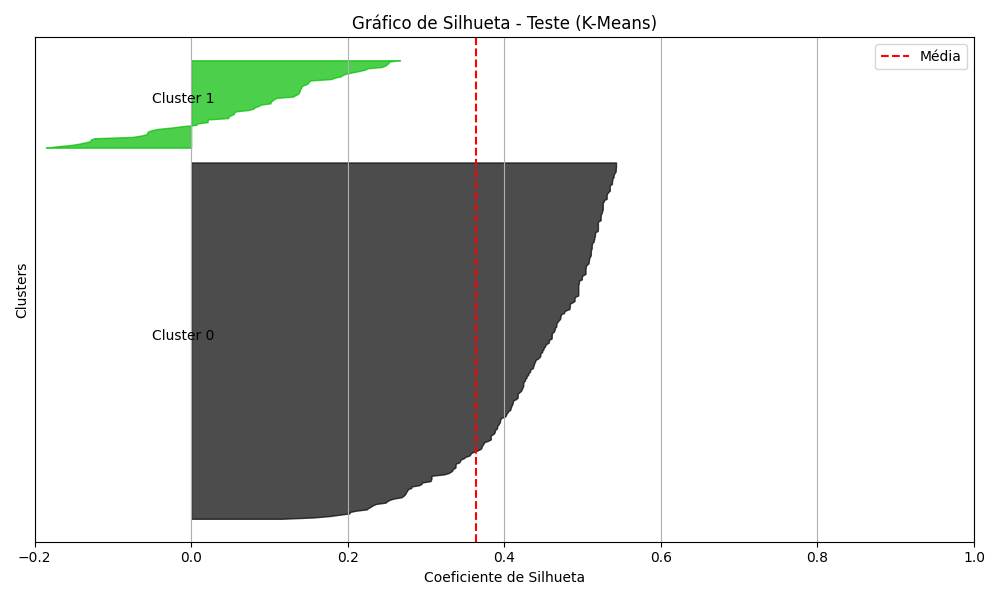
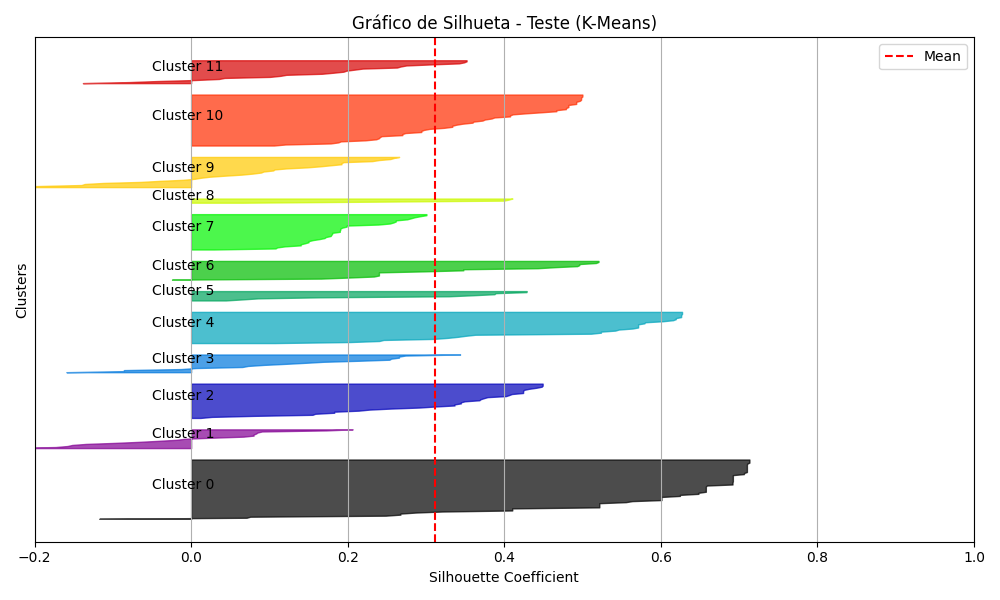
dbscan implemented

Changed region(s): [[0.031, 0.09, 0.744, 0.87], [0.434, 0.93, 0.589, 0.99], [0.868, 0.09, 0.961, 0.12]]

diff --git a/Utils/metrics_visual.py b/Utils/metrics_visual.py
@@ -18,7 +18,6 @@ def save_confusion_matrix(y_true, y_pred, class_labels, save_path, show=False, t
     - show: If True, also display the plot
     - title: Plot title
     """
-
     os.makedirs(os.path.dirname(save_path), exist_ok=True)
 
     disp = ConfusionMatrixDisplay.from_predictions(
@@ -36,9 +35,10 @@ def save_confusion_matrix(y_true, y_pred, class_labels, save_path, show=False, t
     plt.close()
     print(f"[INFO] Confusion matrix saved to: {save_path}")
 
+
 def save_classification_report_image(y_true, y_pred, class_labels, save_path, title="Classification Report"):
     """
-    Generates a styled image with only precision, recall and F1-score per class,
+    Generates a styled image with only precision, recall, and F1-score per class,
     and shows global accuracy separately. Saves the result as a PNG image.
 
     Parameters:
@@ -50,7 +50,6 @@ def save_classification_report_image(y_true, y_pred, class_labels, save_path, ti
     """
     os.makedirs(os.path.dirname(save_path), exist_ok=True)
 
-    # Metrics
     report_dict = classification_report(
         y_true, y_pred,
         target_names=class_labels,
@@ -58,15 +57,11 @@ def save_classification_report_image(y_true, y_pred, class_labels, save_path, ti
     )
     accuracy = accuracy_score(y_true, y_pred)
     df = pd.DataFrame(report_dict).transpose().round(3)
-
-    # Keep only precision, recall, f1-score, remove accuracy/support/macro/weighted
     df_filtered = df.loc[class_labels, ['precision', 'recall', 'f1-score']]
 
-    # Plotting
     fig, ax = plt.subplots(figsize=(8, len(df_filtered) * 0.6 + 2))
     ax.axis('off')
 
-    # Table style
     table = ax.table(
         cellText=df_filtered.values,
         rowLabels=df_filtered.index,
@@ -78,32 +73,29 @@ def save_classification_report_image(y_true, y_pred, class_labels, save_path, ti
     table.set_fontsize(11)
     table.scale(1.1, 1.6)
 
-    # Title and accuracy
     plt.title(f"{title}\nAccuracy: {accuracy:.2%}", fontsize=14, weight='bold', pad=20)
 
     plt.tight_layout()
     plt.savefig(save_path, dpi=300)
     plt.close()
 
-    print(f"[INFO] Pretty classification report image saved to: {save_path}")
+    print(f"[INFO] Classification report image saved to: {save_path}")
+
 
 def plot_roc_curve(y_true, y_proba, title='ROC Curve', save_path=None, show=True):
     """
     Plots the ROC Curve with AUC for a binary classification model.
 
     Parameters:
-    - y_true: array-like, true binary labels (0 or 1)
-    - y_proba: array-like, predicted probabilities for the positive class (e.g., model.predict_proba()[:, 1])
-    - title: str, plot title (optional)
-    - save_path: str, path to save the image (optional)
-    - show: bool, if True, displays the plot (optional)
+    - y_true: True binary labels (0 or 1)
+    - y_proba: Predicted probabilities for the positive class
+    - title: Plot title
+    - save_path: Path to save the image (optional)
+    - show: If True, displays the plot (optional)
     """
-
-    # Compute False Positive Rate (FPR), True Positive Rate (TPR), and thresholds
     fpr, tpr, _ = roc_curve(y_true, y_proba)
     roc_auc = auc(fpr, tpr)
 
-    # Plot ROC Curve
     plt.figure(figsize=(8, 6))
     plt.plot(fpr, tpr, color='darkorange', lw=2, label=f'ROC curve (AUC = {roc_auc:.2f})')
     plt.plot([0, 1], [0, 1], color='navy', lw=2, linestyle='--', label='Random (AUC = 0.5)')
@@ -115,7 +107,6 @@ def plot_roc_curve(y_true, y_proba, title='ROC Curve', save_path=None, show=True
     plt.legend(loc="lower right")
     plt.grid(True)
 
-    # Save or display the plot
     if save_path:
         plt.savefig(save_path, bbox_inches='tight')
     if show:
@@ -123,19 +114,19 @@ def plot_roc_curve(y_true, y_proba, title='ROC Curve', save_path=None, show=True
     else:
         plt.close()
 
+
 def plot_survival_distribution(train_labels, title='Survival Distribution (Train Set)', save_path=None, show=True):
     """
     Plots the distribution of the 'Survived' variable for the training set.
 
     Parameters:
     - train_labels: Series or array-like of training set labels (0 or 1)
-    - title: plot title (optional)
-    - save_path: path to save the plot (optional)
-    - show: if True, displays the plot
+    - title: Plot title
+    - save_path: Path to save the plot (optional)
+    - show: If True, displays the plot
     """
     train_df = pd.DataFrame({'Survived': train_labels})
 
-    # Plot
     plt.figure(figsize=(6, 5))
     sns.countplot(data=train_df, x='Survived', palette='Set2')
     plt.title(title)
@@ -151,10 +142,16 @@ def plot_survival_distribution(train_labels, title='Survival Distribution (Train
     else:
         plt.close()
 
-def plot_silhouette(X, labels, save_path, title="Gráfico de Silhueta"):
+
+def plot_silhouette(X, labels, save_path, title="Silhouette Plot"):
     from sklearn.metrics import silhouette_samples, silhouette_score
 
-    score = silhouette_score(X, labels)
+    mask = labels != -1
+    if np.sum(mask) > 1:
+        score = silhouette_score(X[mask], labels[mask])
+    else:
+        score = 0
+
     sample_silhouette_values = silhouette_samples(X, labels)
     n_clusters = len(set(labels))
 
@@ -172,9 +169,9 @@ def plot_silhouette(X, labels, save_path, title="Gráfico de Silhueta"):
         y_lower = y_upper + 10
 
     ax.set_title(title)
-    ax.set_xlabel("Coeficiente de Silhueta")
+    ax.set_xlabel("Silhouette Coefficient")
     ax.set_ylabel("Clusters")
-    ax.axvline(x=score, color="red", linestyle="--", label="Média")
+    ax.axvline(x=score, color="red", linestyle="--", label="Mean")
     ax.set_yticks([])
     ax.set_xlim([-0.2, 1])
     ax.legend()
@@ -184,7 +181,7 @@ def plot_silhouette(X, labels, save_path, title="Gráfico de Silhueta"):
     plt.close()
 
 
-def plot_tsne(X, labels, save_path, title="Visualização TSNE"):
+def plot_tsne(X, labels, save_path, title="t-SNE Visualization"):
     from sklearn.manifold import TSNE
 
     tsne = TSNE(n_components=2, random_state=42)
@@ -193,8 +190,8 @@ def plot_tsne(X, labels, save_path, title="Visualização TSNE"):
     plt.figure(figsize=(8, 6))
     plt.scatter(X_tsne[:, 0], X_tsne[:, 1], c=labels, cmap='viridis', alpha=0.7)
     plt.title(title)
-    plt.xlabel("TSNE-1")
-    plt.ylabel("TSNE-2")
+    plt.xlabel("t-SNE 1")
+    plt.ylabel("t-SNE 2")
     plt.grid(True)
     plt.tight_layout()
     plt.savefig(save_path)
@@ -205,8 +202,8 @@ def plot_contingency_matrix(df, save_path):
     contingency = pd.crosstab(df['Cluster'], df['Survived'])
     plt.figure(figsize=(6, 4))
     sns.heatmap(contingency, annot=True, fmt='d', cmap='Blues')
-    plt.title("Matriz de Contingência: Cluster x Survived")
-    plt.xlabel("Classe Real (Survived)")
+    plt.title("Contingency Matrix: Cluster vs Survived")
+    plt.xlabel("True Class (Survived)")
     plt.ylabel("Cluster")
     plt.tight_layout()
     plt.savefig(save_path)
@@ -226,7 +223,7 @@ def save_cluster_profile(df, save_csv_path, save_table_path):
                    cellLoc='center',
                    loc='center')
     tbl.scale(1, 1.5)
-    plt.title("Perfil Médio por Cluster")
+    plt.title("Average Profile per Cluster")
     plt.tight_layout()
     plt.savefig(save_table_path)
     plt.close()

diff --git a/Algorithms/Dbscan/Dbscan.py b/Algorithms/Dbscan/Dbscan.py
@@ -1,0 +1,85 @@
+from Utils.data_set_reader import csv_reader
+from Utils.pre_processing import treat_data
+from Utils.metrics_visual import (
+    plot_silhouette,
+    plot_tsne,
+    plot_contingency_matrix,
+    save_cluster_profile
+)
+from sklearn.cluster import DBSCAN
+from sklearn.preprocessing import StandardScaler
+import pandas as pd
+import os
+
+
+def dbscan():
+    os.makedirs("Analysis/DBSCAN", exist_ok=True)
+
+    # Carregar os dados e os rótulos reais separados
+    data_test = csv_reader("Titanic_data_set/test.csv")
+    labels_test = pd.read_csv('Titanic_data_set/rf_mod_Solution.csv')
+
+    columns_to_remove = ["PassengerId", "Ticket", "Cabin", "Embarked", "Name", "Fare"]
+    essential_columns = ["Pclass", "Sex", "Age", "SibSp", "Parch"]
+    one_hot_encoding_columns = ["Sex", "Pclass"]
+    columns_to_normalize = ["Age", "SibSp", "Parch"]
+
+    # Pré-processamento
+    data_test = treat_data(
+        data=data_test,
+        columns_to_remove=columns_to_remove,
+        essential_columns=essential_columns,
+        one_hot_columns=one_hot_encoding_columns,
+        columns_to_scale=columns_to_normalize
+    )
+
+    # Remover NaNs
+    X_test = data_test.dropna().astype(float)
+
+    # Alinhar y_test com as instâncias válidas restantes
+    valid_indices = X_test.index
+    y_test = labels_test.loc[valid_indices, 'Survived'].reset_index(drop=True)
+
+    print(y_test)
+
+    # Clustering com DBSCAN
+    model = train_dbscan(X_test)
+    cluster_labels_test = model.labels_
+
+    # Verificação: pode haver ruído (label = -1)
+    n_clusters = len(set(cluster_labels_test)) - (1 if -1 in cluster_labels_test else 0)
+    print(f"Número de clusters encontrados (excluindo ruído): {n_clusters}")
+    print(f"Rótulos de cluster DBSCAN: {set(cluster_labels_test)}")
+
+    # Visualizações
+    plot_silhouette(X_test, cluster_labels_test, "Analysis/DBSCAN/silhouette_dbscan_test.png",
+                    title="Gráfico de Silhueta - Teste (DBSCAN)")
+
+    plot_tsne(X_test, cluster_labels_test, "Analysis/DBSCAN/tsne_dbscan_test.png",
+              title="Clusters no conjunto de TESTE (DBSCAN)")
+
+    df_test = pd.DataFrame(X_test)
+    df_test['Survived'] = y_test
+    df_test['Cluster'] = cluster_labels_test
+
+    print("\nTabela de Contingência entre Clusters e Classe Real:")
+    contingency = plot_contingency_matrix(df_test, "Analysis/DBSCAN/contingency_matrix.png")
+    print(contingency)
+
+    print("\nPerfil médio de cada cluster:")
+    cluster_profile = save_cluster_profile(df_test,
+                                           "Analysis/DBSCAN/cluster_profiles.csv",
+                                           "Analysis/DBSCAN/cluster_profiles_table.png")
+    print(cluster_profile)
+
+
+def train_dbscan(X, eps=0.5, min_samples=5):
+    """
+    Treina o DBSCAN com parâmetros ajustáveis.
+    """
+    scaler = StandardScaler()
+    X_scaled = scaler.fit_transform(X)
+
+    db = DBSCAN(eps=eps, min_samples=min_samples)
+    db.fit(X_scaled)
+    return db

diff --git a/Algorithms/K_means/k_means.py b/Algorithms/K_means/k_means.py
@@ -9,11 +9,6 @@ from Utils.metrics_visual import(
 )
 from imblearn.over_sampling import SMOTE
 from sklearn.cluster import KMeans
-from sklearn.manifold import TSNE
-from sklearn.metrics import silhouette_score, silhouette_samples
-import matplotlib.pyplot as plt
-import matplotlib.cm as cm
-import numpy as np
 import pandas as pd
 import os
 
@@ -54,7 +49,7 @@ def k_means():
     # Clustering
     kmeans_model = train_model()
     cluster_labels_test = kmeans_model.predict(X_test)
-    
+
 
     plot_silhouette(X_test, cluster_labels_test, "Analysis/KMeans/silhouette_kmeans_test.png",
                     title="Gráfico de Silhueta - Teste (K-Means)")
@@ -100,7 +95,7 @@ def train_model():
     smote = SMOTE(random_state=42)
     X_resampled, y_resampled = smote.fit_resample(X_train, y_train)
 
-    kmeans = KMeans(n_clusters=2, random_state=42)
+    kmeans = KMeans(n_clusters=12, random_state=42)
     cluster_labels = kmeans.fit_predict(X_resampled)
 
     print("Rótulos dos clusters atribuídos pelo K-Means:")

diff --git a/main.py b/main.py
@@ -1,7 +1,7 @@
 from Algorithms.Random_forest.random_forest import random_forest
 from Algorithms.Neural_network.Neural_network import neural_network
 from Algorithms.K_means.k_means import k_means
+from Algorithms.Dbscan.Dbscan import dbscan
 import numpy as np
 
-
-k_means()
+dbscan()
